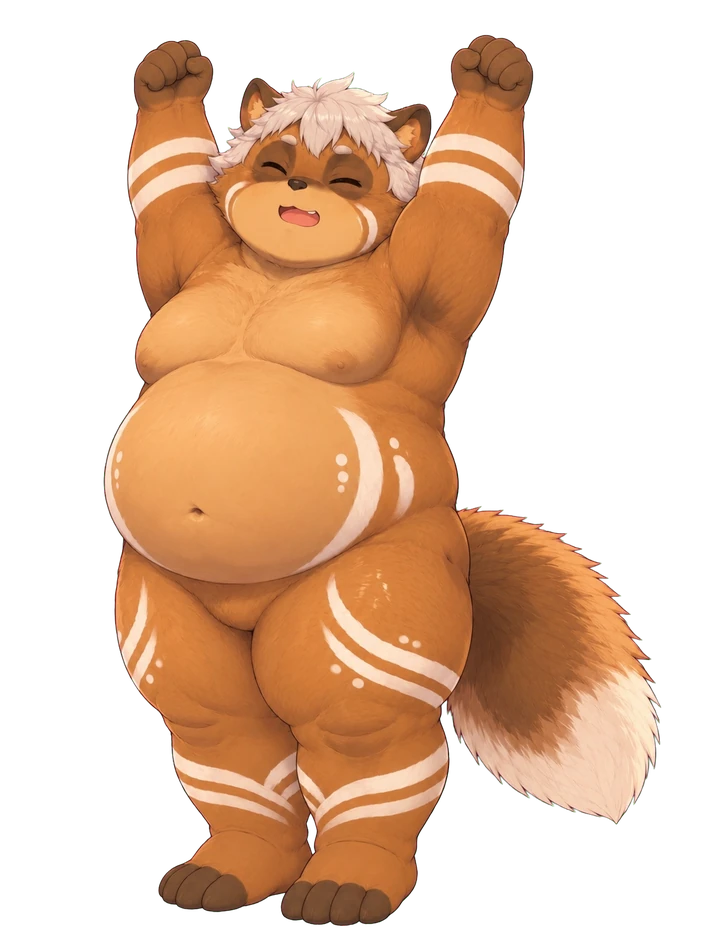
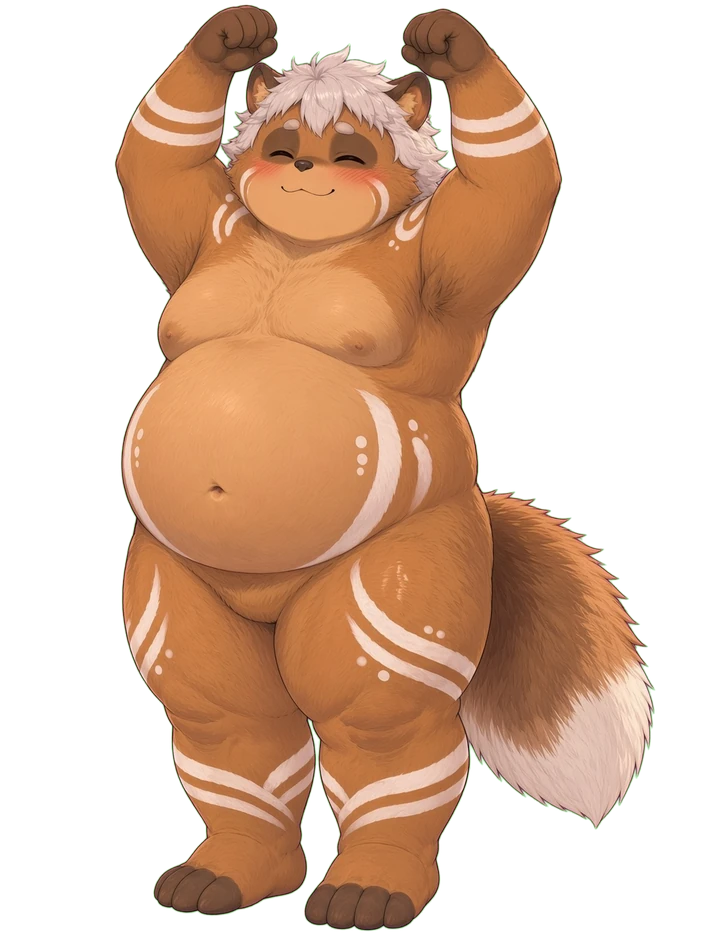
洗うゲーム：ばんざいの描き直し版を組みこむ（ひじを曲げた拳のポーズ。足もと優先で立ち絵に合わせ、脇・胸・おなか・お股の泡の座標を測り直した）
Claude-Session: https://claude.ai/code/session_01DyLyAikiqLVj4QqPgYJ7PD

Changed region(s): [[0.1222, 0.0, 0.9167, 1.0], [0.275, 0.4319, 0.3056, 0.4628]]

diff --git a/tanukun/tools/make_washing_art.py b/tanukun/tools/make_washing_art.py
@@ -5,7 +5,7 @@
 
 washing/art/*_src（Gemini で描いた、腰みの・ネックレスなしの絵。背景はマゼンタ）
   stand（前向き。848×1264）→ washing/img/stand.webp（720×900。立ち絵 images/normal.webp とぴったり重なる大きさ・位置。背景は透明）
-  banzai（ばんざい）・mojimoji（もじもじ）・shake（ぶるぶる）・back（真後ろ）・lookback（うしろでふり返る）（1027×1532）
+  banzai（ばんざい。1152×1712）・mojimoji（もじもじ）・shake（ぶるぶる）・back（真後ろ）・lookback（うしろでふり返る）（1027×1532）
     → washing/img/*.webp（720×940。上に PAD=40px の余白をつけて、上げた手や頭が切れないように。ゲームでは y=-40 に置く）
   items（小物のまとめ絵）→ washing/img/item_*.webp（1つずつ切り分け。半分の大きさ）
 
@@ -30,7 +30,7 @@ PAD = 40   # stand 以外の絵は、上にこの余白をつける
 ART = {
     # 名前: (元の絵, 倍率, 横にずらす, 縦にずらす, 上の余白)。倍率とずらす量は、立ち絵と下半身の形がいちばん重なる値
     'stand':    ('stand_src.jpg',    0.71,   56,  2, 0),
-    'banzai':   ('banzai_src.png',   0.5975, 52, -20, PAD),   # 重なり 93%（下半身）
+    'banzai':   ('banzai_src.jpg',   0.557,  28, -57, PAD),   # 描き直し版（2026-11-02。ひじを曲げた拳のばんざい。1152×1712）。足もと優先で合わせた：重なり 87%（足から下）・91%（下半身）
     'mojimoji': ('mojimoji_src.png', 0.5925, 62, -5, PAD),    # 重なり 90%
     'shake':    ('shake_src.png',    0.59,   55, -4, PAD),    # 重なり 91%
     'back':     ('back_src.png',     0.6125, 51, -39, PAD),   # 真後ろ（大きさと足の位置をそろえた。ふり返りの絵は耳の位置が不自然なのでやめた）

diff --git a/tanukun/HANDOFF.md b/tanukun/HANDOFF.md
@@ -1,13 +1,18 @@
 # タヌくん スマホ版（Webアプリ）引き継ぎメモ
 
-最終更新：2026-11-02
+最終更新：2026-11-02（ばんざいの描き直しを組みこみ）
 
 ---
 
 ## 0. 新しいチャットのClaudeへ（最初に読んでください）
 
 ### ★★★★★ 新しいチャットはここから（2026-11-02 夜。まずここだけ読めば始められる）
-**次にやること：洗うゲーム（washing/）のイラストの直し**（ユーザーが絵を用意する）。そのあと、本番への組みこみを相談。
+**次にやること：洗うゲーム（washing/）のイラストの直しの続き**（ばんざいは組みこみ済み。残りはユーザーが決める：背景の消した版など）。そのあと、本番への組みこみを相談。
+**2026-11-02 ばんざいの描き直し版を組みこんだ**：washing/art/banzai_src.jpg（1152×1712。ひじを曲げて拳を耳のそばに、目を閉じた笑顔・ほっぺの赤み）→ img/banzai.webp。
+make_washing_art.py の ART は倍率 0.557・横 28・縦 -57（足もと優先で立ち絵に合わせた。重なり 91%（下半身）・87%（足から下）。前の版は97%）。
+これに合わせて washing.js の PITS（脇。左 170,245／右 440,248）・ZONES.banzai（おなか・胸）・CROTCH_FOAM.banzai（248,565）を測り直した。
+既知の小さな差：おなかの2本目の線・左ももの線が立ち絵より少ない（模様）。切りかえで足・しっぽが少しずれる。左の脇は毛が描かれていない（右は毛あり）。
+確認のしかた：`python3 tools/build_preview.py --washing --out 好きな場所/washing.html` を playwright で開く（washing/index.html は hidden のためトップに戻される）。
 
 **1. 大事な約束（必ず守る）**
 - **お金がかかる話は、必ずユーザーと相談してから**（AI の API・有料サーバー・ストア登録・絵師さんへの依頼・広告・応援サービスの開始も）。無料でできる所から進める
@@ -26,7 +31,7 @@
 - 脇の下をこするとばんざい。上げた腕の泡は腕を下ろすと消える。お股はもじもじの絵＋「そ、そこは自分で洗うから〜！」
 - よごれゲージ（上）：汚れで 100→20%、泡を流して 20→0%。0% で仕上げのシャワー → 結果の画面「ピカピカ！」（ごほうびの絵はまだ）
 - 3言語（washing.i18n.js）。絵は `python3 tools/make_washing_art.py`（元の絵は washing/art）
-- **これからのこと**：①イラストの直し（**ばんざいの描き直し**＝ユーザーが用意。背景は右の壁に固定のシャワー・水・ボトルが描かれたまま「試しにこのまま」。気になれば消した版に差しかえ）
+- **これからのこと**：①イラストの直し（ばんざいは済。背景は右の壁に固定のシャワー・水・ボトルが描かれたまま「試しにこのまま」。気になれば消した版に差しかえ）
   ②ぶるぶる（今は外している）を入れるか ③ごほうびの特別イラスト（泡あわ・タオルでほかほか・ドライヤーでもふもふ大爆発の案）④落としものの図鑑
   ⑤本番への組みこみ（トップ画面のアイコン・app.js の homeGames・sw.js・build_app.py。シーソーと同じ形）
 - 気になっている点：はじめのガイドの1つ目の吹き出しが、タヌくんの顔に1秒ほど重なる（ユーザーは今のところOK）
